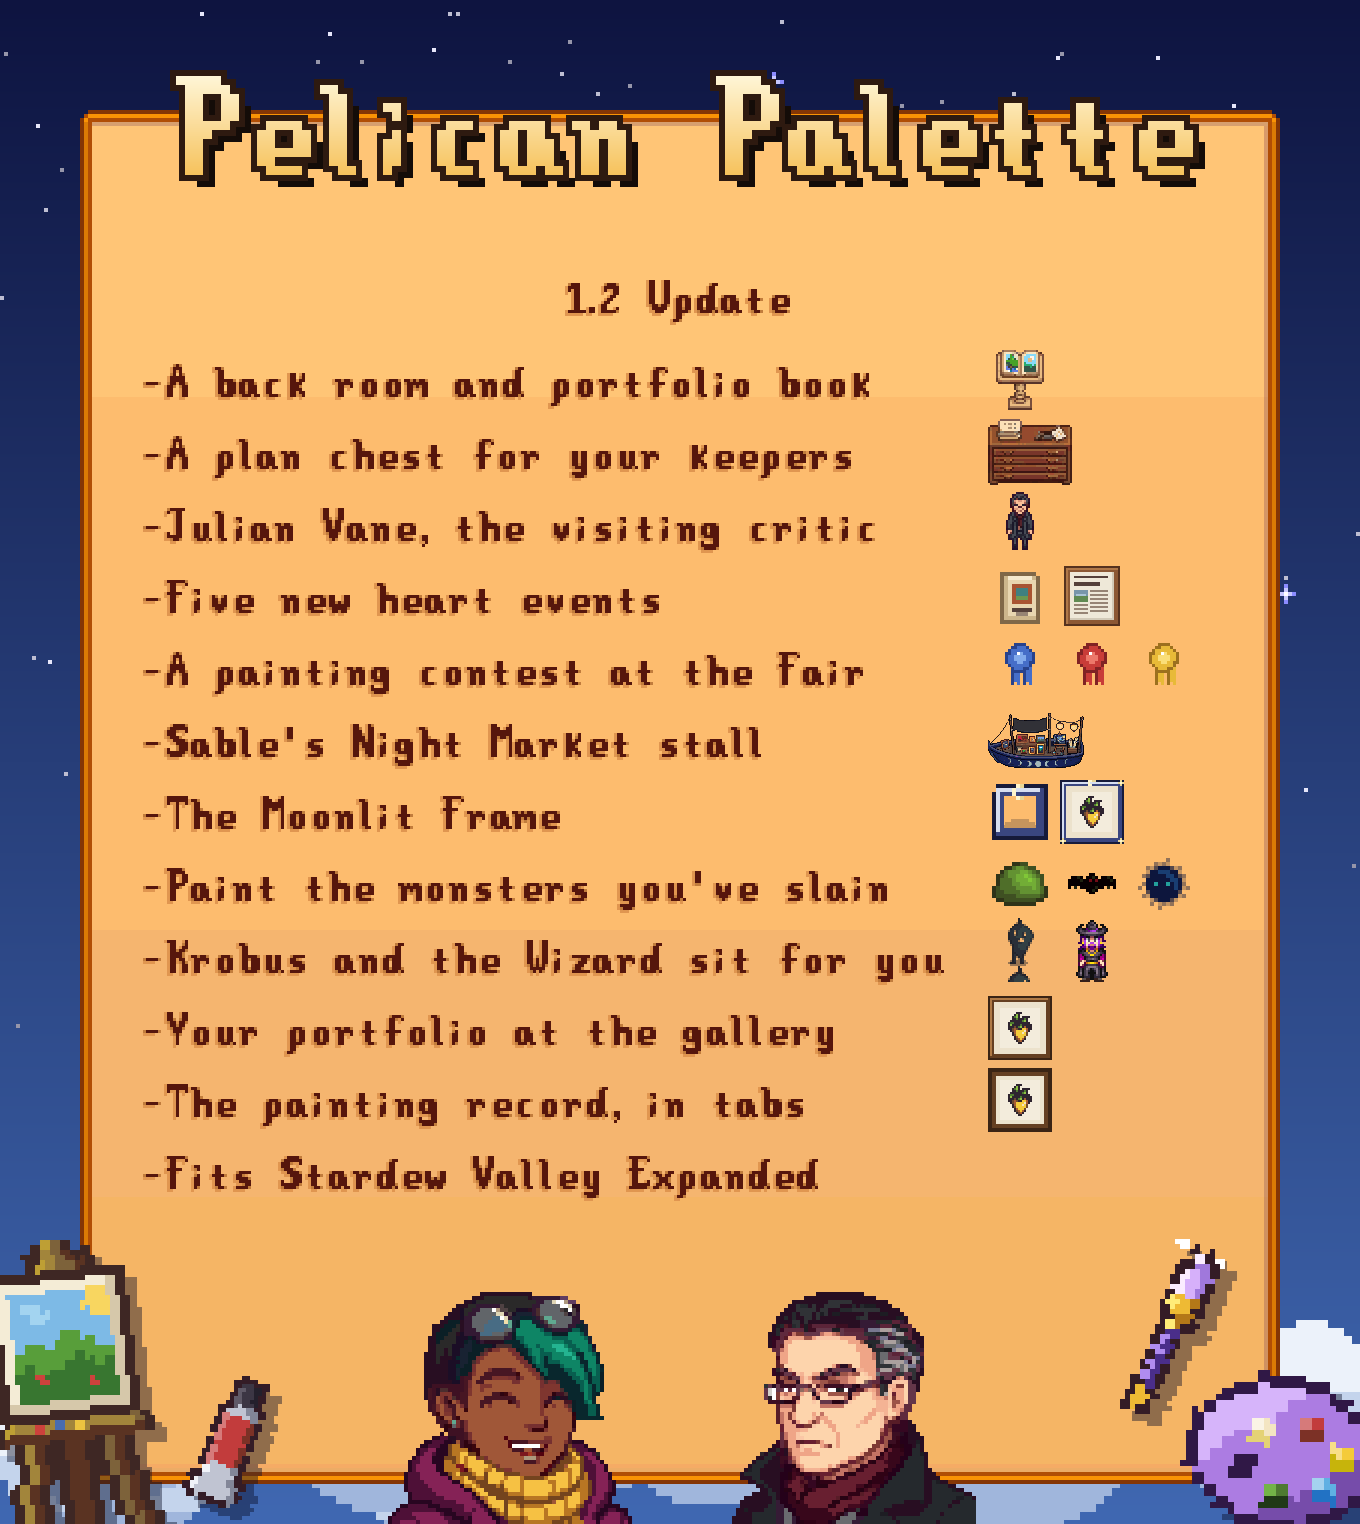
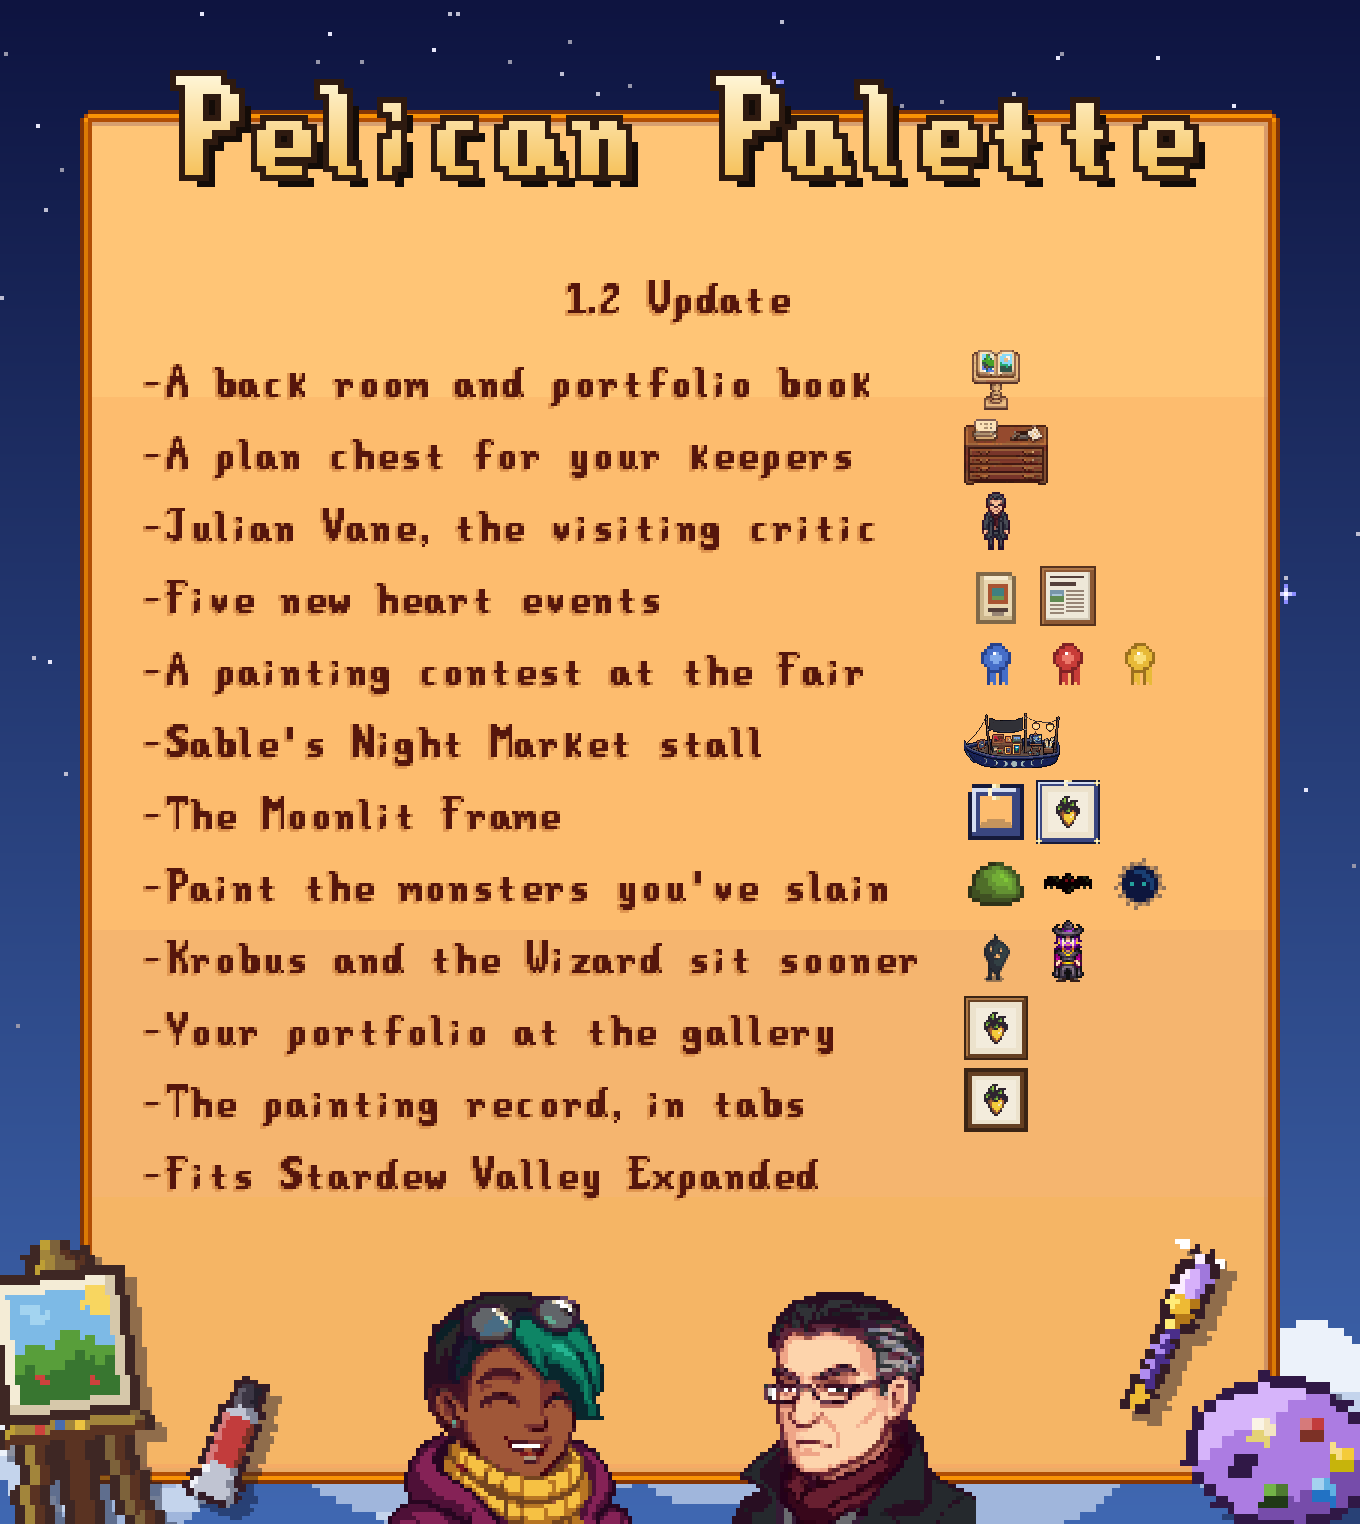
Update card: Krobus whole, and "Krobus and the Wizard sit sooner"
Each villager on the card uses their own sprite frame size, so Krobus's
shorter frames no longer show the next row's head. And since Krobus and
the Wizard could always sit at 4 hearts, the card, the Nexus page, the
changelog and the wiki now say 1.2 lets them sit sooner, without the
usual 4 hearts.

Changed region(s): [[0.6176, 0.2159, 0.8956, 0.7402], [0.5559, 0.6168, 0.5868, 0.6476]]

diff --git a/ArtStudio/DevMedia.cs b/ArtStudio/DevMedia.cs
@@ -231,7 +231,7 @@ internal static class DevMedia
         ("-Sable's Night Market stall", new[] { "skiff" }),
         ("-The Moonlit Frame", new[] { "(O)" + ArtItems.MoonlitFrameItemId, "moonlit-painting" }),
         ("-Paint the monsters you've slain", new[] { "creature:Green Slime", "creature:Bat", "creature:Dust Spirit" }),
-        ("-Krobus and the Wizard sit for you", new[] { "npc:Krobus", "npc:Wizard" }),
+        ("-Krobus and the Wizard sit sooner", new[] { "npc:Krobus", "npc:Wizard" }),
         ("-Your portfolio at the gallery", new[] { "painting" }),
         ("-The painting record, in tabs", new[] { "tabs" }),
         ("-Fits Stardew Valley Expanded", Array.Empty<string>()),
@@ -278,7 +278,11 @@ internal static class DevMedia
                     b.Draw(Game1.content.Load<Texture2D>($"Mods/{ModEntry.Id}/JulianItems"), new Rectangle((int)at.X + 8, (int)at.Y + 4, 48, 48),
                         new Rectangle(48 + 16 * int.Parse(icon.Substring("ribbon:".Length)), 0, 16, 16), Color.White);
                 else if (icon.StartsWith("npc:") && Game1.getCharacterFromName(icon.Substring(4)) is { } npc)
-                    b.Draw(npc.Sprite.Texture, new Rectangle((int)at.X + 16, (int)at.Y - 6, 32, 64), new Rectangle(0, 0, 16, 32), Color.White);
+                {
+                    // (Each villager's own frame size: Krobus's frames are shorter than most.)
+                    int fw = npc.Sprite.SpriteWidth, fh = npc.Sprite.SpriteHeight;
+                    b.Draw(npc.Sprite.Texture, new Rectangle((int)at.X + 32 - fw, (int)at.Y + 58 - fh * 2, fw * 2, fh * 2), new Rectangle(0, 0, fw, fh), Color.White);
+                }
                 else
                     slots.Add($"{icon} {(int)at.X} {(int)at.Y}");       // drawn by the Python side
             }

diff --git a/tools/build_wiki.py b/tools/build_wiki.py
@@ -823,7 +823,7 @@ Once you have medium canvases (Painting level 4), friends at **4 hearts or more*
 - **Value:** it sells for {DATA["market"]["portrait"]}x, and gives 30% more Painting XP.
 - **As a gift:** the sitter always loves being given theirs.
 - **Commissions:** friends at 4+ hearts also post portrait requests on the {link("Commissions", "commission board")}.
-- **Krobus and the Wizard** sit once their stories are done, hearts or not: Krobus once you've met him in the sewers, the Wizard once you've brought him the magic ink.
+- **Krobus and the Wizard** sit sooner, without the usual 4 hearts: Krobus once you've met him in the sewers, the Wizard once you've brought him the magic ink.
 
 ## Creatures
 Paint a study of any monster you've slain, from memory. On the setup screen, the creatures slot shows them in place of your bag. Junimos join once the Community Center (or Joja's) is done.

diff --git a/docs/wiki/Changelog.md b/docs/wiki/Changelog.md
@@ -2,13 +2,14 @@
 
 - **The back room.** A door in the shop's back wall, marked "Artists only!" and with a lit window, leads to a back room, where you keep your work: the **portfolio book**, a Community Center for paintings (pages of slots, each asking for a particular painting, which stays there and shows in its slot; a better one can replace it later), and the **plan chest**, a big chest's worth of drawers for any paintings you want to keep. Both are shared by the whole farm. Finishing a page brings a letter from Sable with a reward. Pages so far: The Four Seasons, Harvest and Fine Work.
 - **Creatures.** Paint a study of any monster you've slain, from memory: the easel's setup screen has a creatures slot that shows them in place of your bag. Junimos join once the Community Center (or Joja's) is done. The record has a Creatures tab.
-- **Krobus and the Wizard sit for portraits** once their stories are done (meeting Krobus in the sewers; bringing the Wizard the magic ink), hearts or not.
+- **Krobus and the Wizard sit for portraits sooner:** once their stories are done (meeting Krobus in the sewers; bringing the Wizard the magic ink), without the usual 4 hearts.
 - **Two more portfolio pages:** Far Places (the desert, the Skull Cavern, Ginger Island's beach and north, the Secret Woods) and Legends (the five legendary fish). You can now set up an easel just inside the Skull Cavern.
 - **Julian Vane, the critic.** A city art critic with a history with Sable visits the valley the 22nd to the 24th of every season, off the morning bus and back on the evening one: your portfolio in the back room, the museum, the beach, the Saloon. Not marriageable; his friendship doesn't fade between visits. Five heart events tell his story with Sable, from your portfolio to a second review, with an Old Catalogue to deliver and a framed review to hang.
 - **The Fair's painting contest.** Julian judges a painting contest at the Stardew Valley Fair, on the grass just past the grange row. Talk to him before Lewis judges the grange to enter one painting from your bag; it stands on his easel for the day. The villagers' entries lean against the tree beside him, and the tourist nearby has come all the way from Zuzu City to see it. Your painting is scored on its quality, stars, subject, varnish and whether it's a Masterpiece, against Leah, Elliott (or Evelyn, later in Sable's story) and Emily. After the judging, talk to him again for your placing, star tokens (1000, 500, 200, or 50 for entering), a blue, red or yellow ribbon to hang, and your painting back.
 - **Sable at the Night Market.** All three nights from 5pm, Sable keeps a little skiff of their own, moored below the bridge to the submarine. They sell the **Moonlit Frame** (one a night): frame a painting in it at an easel and it hangs in midnight blue and silver. And they buy unusual paintings for half as much again, up to three a night: views of the Far Places, the legendary fish, monsters, and views painted at night or in the rain.
 - **Views remember the night and the rain.** A view painted from 7pm, or in the rain, says so in its description.
 - **Your portfolio at the gallery evening.** At Sable's exhibition (their 14-heart event), your portfolio book comes out of the back room on its lectern. A guest who finds their own portrait in it says so; otherwise Leah finds your best painting and names it; and if the book's still empty, Sable has put out your sketches.
+- **Stardew Valley Expanded.** Everything new fits SVE's maps: with SVE, Julian's Fair table stands on the grass by the lamp, left of the north road (SVE's stalls fill the corner by the grange), and the tourist keeps SVE's own line.
 - **Sable's trapdoor moved to the back room**, so the shop floor is clear.
 - **The painting record shows your own painting** of a subject, where one's kept in the portfolio or the plan chest.
 - **Softer outlines on the shop's furniture**, a darker shade of each piece's own colour instead of near-black.

diff --git a/CHANGELOG.md b/CHANGELOG.md
@@ -4,7 +4,7 @@
 
 - **The back room.** A door in the shop's back wall, marked "Artists only!" and with a lit window, leads to a back room, where you keep your work: the **portfolio book**, a Community Center for paintings (pages of slots, each asking for a particular painting, which stays there and shows in its slot; a better one can replace it later), and the **plan chest**, a big chest's worth of drawers for any paintings you want to keep. Both are shared by the whole farm. Finishing a page brings a letter from Sable with a reward. Pages so far: The Four Seasons, Harvest and Fine Work.
 - **Creatures.** Paint a study of any monster you've slain, from memory: the easel's setup screen has a creatures slot that shows them in place of your bag. Junimos join once the Community Center (or Joja's) is done. The record has a Creatures tab.
-- **Krobus and the Wizard sit for portraits** once their stories are done (meeting Krobus in the sewers; bringing the Wizard the magic ink), hearts or not.
+- **Krobus and the Wizard sit for portraits sooner:** once their stories are done (meeting Krobus in the sewers; bringing the Wizard the magic ink), without the usual 4 hearts.
 - **Two more portfolio pages:** Far Places (the desert, the Skull Cavern, Ginger Island's beach and north, the Secret Woods) and Legends (the five legendary fish). You can now set up an easel just inside the Skull Cavern.
 - **Julian Vane, the critic.** A city art critic with a history with Sable visits the valley the 22nd to the 24th of every season, off the morning bus and back on the evening one: your portfolio in the back room, the museum, the beach, the Saloon. Not marriageable; his friendship doesn't fade between visits. Five heart events tell his story with Sable, from your portfolio to a second review, with an Old Catalogue to deliver and a framed review to hang.
 - **The Fair's painting contest.** Julian judges a painting contest at the Stardew Valley Fair, on the grass just past the grange row. Talk to him before Lewis judges the grange to enter one painting from your bag; it stands on his easel for the day. The villagers' entries lean against the tree beside him, and the tourist nearby has come all the way from Zuzu City to see it. Your painting is scored on its quality, stars, subject, varnish and whether it's a Masterpiece, against Leah, Elliott (or Evelyn, later in Sable's story) and Emily. After the judging, talk to him again for your placing, star tokens (1000, 500, 200, or 50 for entering), a blue, red or yellow ribbon to hang, and your painting back.

diff --git a/docs/wiki/Portraits-and-Plein-Air.md b/docs/wiki/Portraits-and-Plein-Air.md
@@ -8,7 +8,7 @@ Once you have medium canvases (Painting level 4), friends at **4 hearts or more*
 - **Value:** it sells for 1.3x, and gives 30% more Painting XP.
 - **As a gift:** the sitter always loves being given theirs.
 - **Commissions:** friends at 4+ hearts also post portrait requests on the [commission board](Commissions).
-- **Krobus and the Wizard** sit once their stories are done, hearts or not: Krobus once you've met him in the sewers, the Wizard once you've brought him the magic ink.
+- **Krobus and the Wizard** sit sooner, without the usual 4 hearts: Krobus once you've met him in the sewers, the Wizard once you've brought him the magic ink.
 
 ## Creatures
 Paint a study of any monster you've slain, from memory. On the setup screen, the creatures slot shows them in place of your bag. Junimos join once the Community Center (or Joja's) is done.
